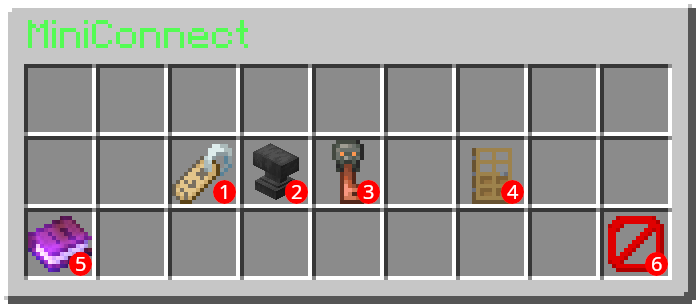
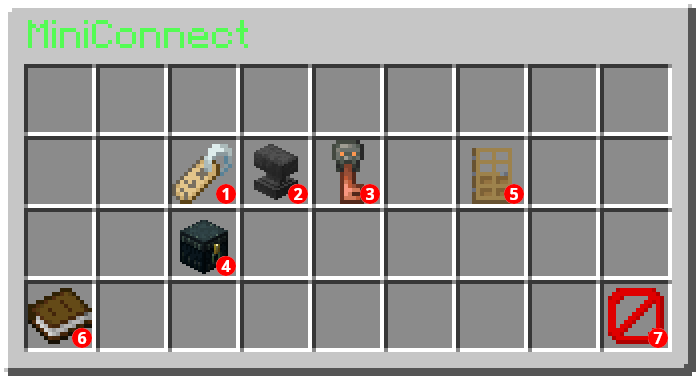
Updated UI screenshot and description

Changed region(s): [[0.0, 0.3257, 0.9957, 1.0], [0.0302, 0.0, 1.0, 0.2368], [0.9957, 0.977, 1.0, 1.0]]

diff --git a/README.MD b/README.MD
@@ -25,9 +25,12 @@ After joining the server, a GUI with settings will open:\
 1. **Set server address**: Enter the address of the server you want to connect to into the chat.
 2. **Set protocol version**: Set the protocol version of the server you want to connect to.
 3. **Login** (optional): Login with your Minecraft account to join premium servers.
-4. **Connect to server**: Connect to the server after setting all options.
-5. **How to use**: A small usage guide.
-6. **Disconnect**: Disconnect from the lobby (same as closing the GUI).
+4. **Proxy online mode**: Enable online mode for your account. This extra verification will be used to save settings between sessions.\
+   After clicking the button, you have 60s to reconnect to the MiniConnect server with a valid Minecraft account.\
+   You can disable this option at any time by clicking the button again.
+5. **Connect to server**: Connect to the server after setting all options.
+6. **How to use**: A small usage guide.
+7. **Disconnect**: Disconnect from the lobby (same as closing the GUI).
 
 After setting all required option (server address and protocol version), click on the `Connect to server` button to connect to the server.\
 If you disconnect from the server, all settings will be reset and you will have to set them again.
